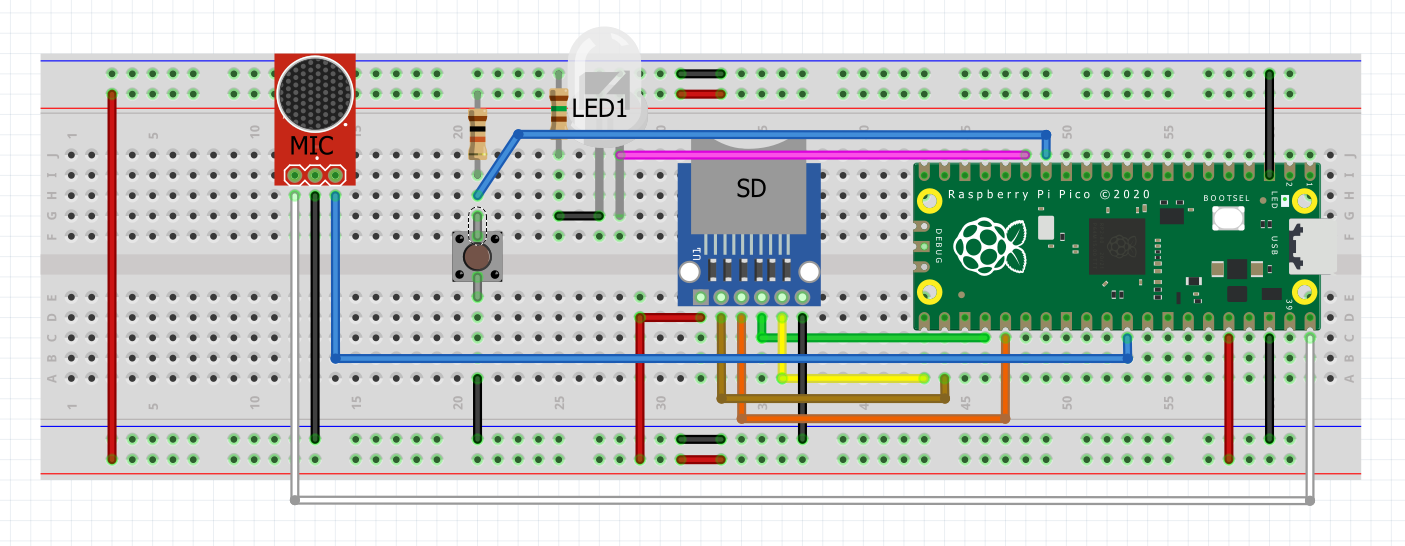
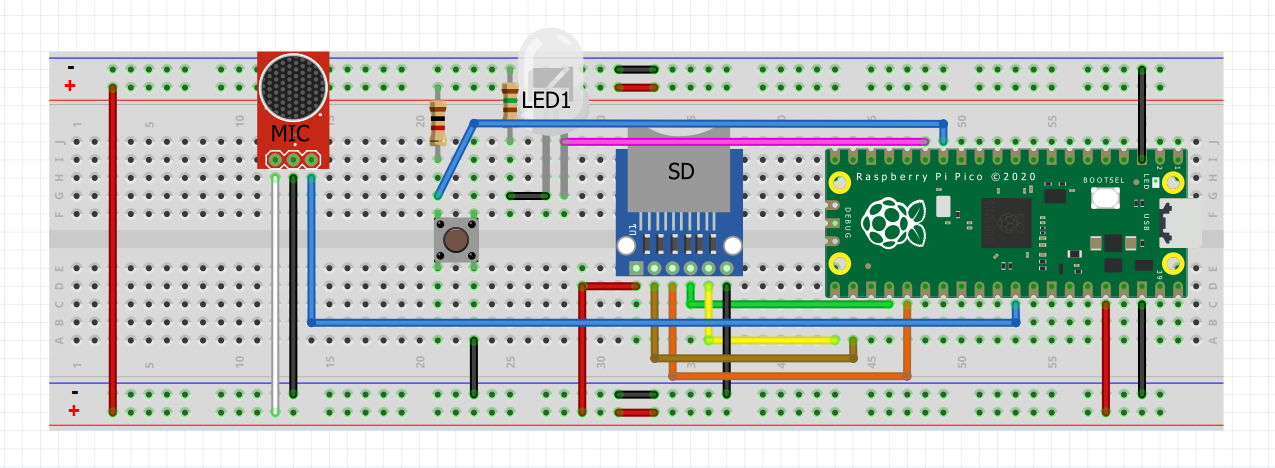
Updated Readme microphone circuit section.  Added more images.

diff --git a/README.md b/README.md
@@ -80,9 +80,15 @@ print("Hello Micropython!")
 ## Microphone Circuit
 1. Add the microphone component to board.  Note that the physical component doesn't exactly match the diagram here, but you should be able to follow the pin labels.  This microphone component is an omnidirection electret condensor with a pre-amp circuit.
 
-![SDCard Prep](https://github.com/PTC-Coder/RP2040_Recorder/blob/main/Documents/MicrophoneCircuit.png?raw=true)
+![Mic Circuit](https://github.com/PTC-Coder/RP2040_Recorder/blob/main/Documents/MicrophoneCircuit.png?raw=true)
 
-2. Wire the connections according to the shown image.  Note that VCC pin is connected to the VBUS pin (Pin 40) on the Pico to get the 5V for VCC.  This gives the mic a higher bias voltage, resulting in a better SNR.
+2. Wire the connections according to the shown images.  
+
+![Mic Circuit](https://github.com/PTC-Coder/RP2040_Recorder/blob/main/Documents/MicrophoneCircuit2.png?raw=true)
+
+![Mic Conn](https://github.com/PTC-Coder/RP2040_Recorder/blob/main/Documents/mic_conn.png?raw=true)
+
+![RPi Mic Conn](https://github.com/PTC-Coder/RP2040_Recorder/blob/main/Documents/RPiMicConn.png?raw=true)
 
 3. You can test this circuit portion by running the [ADC_DMA_doublebuff.py](/Examples/ADC_DMA_doublebuff.py) code to continuously grab data from the microphone to the ADC and transfer them to the Direct Memory Access (DMA) channels on the Pico. This code will not work if don't have the [rp_devices.py](/Src/rp_devices.py) loaded into the Pico already.
 
@@ -104,7 +110,7 @@ Here's the physical board layout connection for the SD Card Slot to the Pico
 
 3. Test this circuit by copying the code from [SDCard_test.py](Examples/SDCard_test.py) and run the code on the Pico.  This will test the reading and writing of the SD card.  This code will not work if you don't have the [sdcard.py](/Src/sdcard.py) uploaded to the Pico already.  Before running the code, make sure you have a FAT32 formatted SD card inserted into the SD Card slot.
 
-*** Important *** Some breadboard might have poor connections due to the poor quality of the grid lattice and you will keep on getting "OSError: timeout waiting for v2 card" even with the SD Card inserted. The clock timing and data exchanges are critical and require a solid connection. The pins might need to be soldered directly from the SD Card holder to the Pico pins.  Please let us know if you ran into this issue, and we can help solder the pins.
+<span style="color:Tomato">*** Important ***</span> Some breadboard might have poor connections due to the poor quality of the grid lattice and you will keep on getting "OSError: timeout waiting for v2 card" even with the SD Card inserted. The clock timing and data exchanges are critical and require a solid connection. The pins might need to be soldered directly from the SD Card holder to the Pico pins.  Please let us know if you ran into this issue, and we can help solder the pins. You can also exchange the breadboard for a higher quality one (Jameco Valuepro WBU-202-R).
 
 ![Soldered Connections](https://github.com/PTC-Coder/RP2040_Recorder/blob/main/Documents/SolderedPins.png?raw=true)
 
